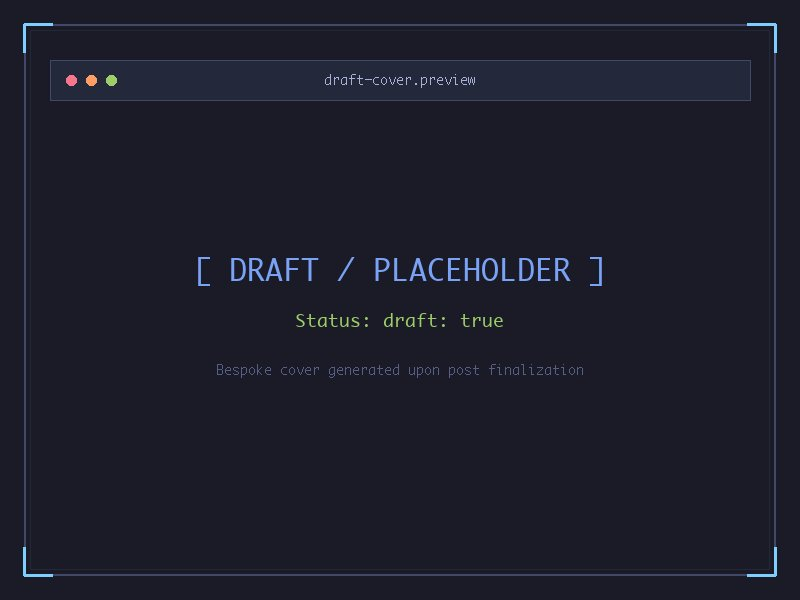
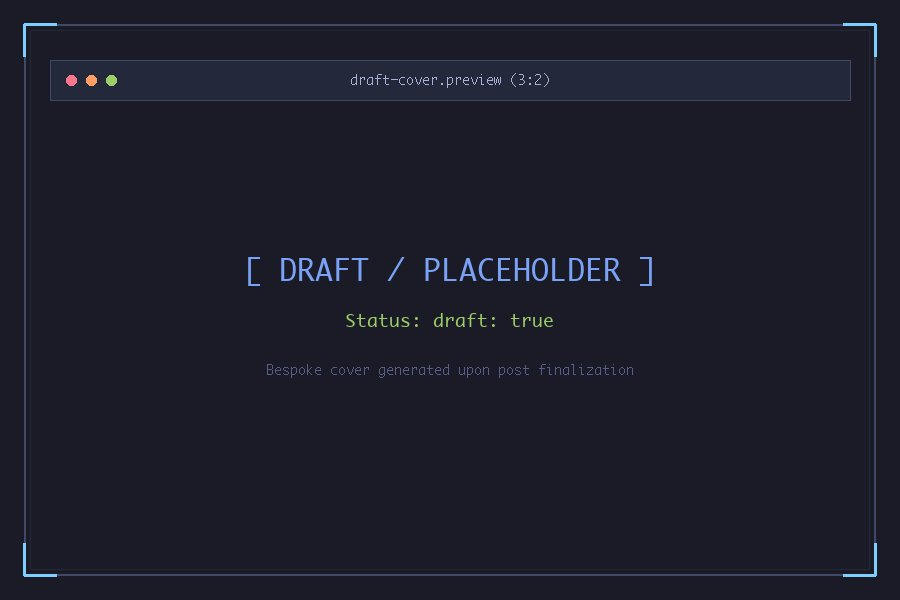
posts skils

diff --git a/.agents/skills/generate-post-image/references/style-guide.md b/.agents/skills/generate-post-image/references/style-guide.md
@@ -13,20 +13,25 @@ Guidelines for generating cover images for [bwrob.dev](https://bwrob.dev).
 * **Text-Free**: Do not embed post titles, slogans, or headlines into the image. The
   blog already renders the title alongside the thumbnail. (Subtle micro-symbols like
   `$`, `>_`, or coordinate labels are fine if natural).
-* **Breathing Room**: Keep compositions balanced with generous dark negative space;
-  avoid chaotic edge-to-edge clutter.
+* **Prominent Framing (80–85% Canvas Fill)**: The central subject (window, diagram, or
+  architecture) should prominently occupy ~80–85% of the canvas with a clean margin.
+  Avoid vast empty voids.
+* **Purposeful Micro-Structure**: Populate panels and nodes with stylized, abstract
+  structure—such as syntax-colored code bars, prompt chips, metric grids, or routing
+  paths—rather than leaving containers flat and bare.
 
 ---
 
 ## 2. Color & Lighting
 
-* **Dark-Mode Base**: Anchored in deep dark backgrounds (slate, obsidian, or dark navy
-  around `#16161e` – `#1a1b26`) to fit the site's Tokyo Night theme.
+* **Cool Slate Background for Contrast**: Use a smooth mid-dark slate/charcoal canvas
+  (`#222738` – `#262b3d`) rather than pitch black. This gives floating dark-mode UI
+  panels (`#16161e` – `#1a1b26`) clean drop-shadow depth and prevents muddy blending.
 * **Flexible Accents**: Use whatever colors suit the post—whether muted and understated
   (slate, soft blue, sage) or punchy and vibrant (electric cyan, amber, emerald,
   violet).
-* **Lighting**: Crisp lines and matte/satin surfaces over blurry neon halos or lens
-  flares.
+* **Lighting & Edges**: Crisp hairline borders, soft ambient drop shadows, and
+  matte/satin surfaces. Avoid blurry neon halos or lens flares.
 
 ---
 
@@ -44,8 +49,8 @@ Feel free to choose whatever visual format best expresses the topic:
 
 ## 4. Technical Specs
 
-* **Dimensions**: **800 × 600** pixels (`4:3` horizontal aspect ratio), optimized for
-  thumbnail miniatures and fast loading.
+* **Dimensions**: **900 × 600** pixels (`3:2` horizontal aspect ratio), optimized for
+  responsive cards, miniatures, and lightweight fast loading.
 * **File Location**: Must **always** be placed directly inside the post folder:
 
   ```text
@@ -56,4 +61,11 @@ Feel free to choose whatever visual format best expresses the topic:
 
   ```yaml
   image: cover.jpg
+  ```
+
+* **In-Post Display**: The cover image must **always** be displayed at the very top of
+  the post body (directly below the frontmatter) at 98% width:
+
+  ```markdown
+  ![](cover.jpg){width="98%" fig-align="center"}
   ```

diff --git a/.agents/skills/generate-post-image/SKILL.md b/.agents/skills/generate-post-image/SKILL.md
@@ -69,17 +69,18 @@ Call `generate_image`:
 * `Prompt`: Your formulated prompt.
 * `ImageName`: Descriptive lowercase name with underscores (e.g.
   `message_pipeline_cover`).
-* `AspectRatio`: `"4:3"` (horizontal 4:3 format).
+* `AspectRatio`: `"3:2"` (horizontal 3:2 format).
 
 ### 4. Save and Optimize Image to the Post Directory
 
-Generated images are saved in the conversation artifact directory as `.png`. Convert and
-resize the image to an 800×600 JPEG at `posts/<post-slug>/cover.jpg`:
+Generated images are saved in the conversation artifact directory as `.png` or `.jpg`.
+Convert and resize the image to an optimized 900×600 JPEG at
+`posts/<post-slug>/cover.jpg`:
 
 Using macOS `sips`:
 
 ```bash
-sips -s format jpeg -z 600 800 -s formatOptions 85 "<artifact_image_path>" --out "posts/<post-slug>/cover.jpg"
+sips -s format jpeg -z 600 900 -s formatOptions 85 "<artifact_image_path>" --out "posts/<post-slug>/cover.jpg"
 ```
 
 Or using Python:
@@ -88,14 +89,15 @@ Or using Python:
 uv run python -c "
 from PIL import Image
 im = Image.open('<artifact_image_path>')
-im = im.resize((800, 600), Image.Resampling.LANCZOS)
+im = im.resize((900, 600), Image.Resampling.LANCZOS)
 im.convert('RGB').save('posts/<post-slug>/cover.jpg', 'JPEG', quality=85, optimize=True)
 "
 ```
 
-### 5. Update Post Frontmatter
+### 5. Update Post Frontmatter & Embed at Top
 
-Ensure `posts/<post-slug>/index.qmd` points to `cover.jpg`:
+Ensure `posts/<post-slug>/index.qmd` points to `cover.jpg` in the frontmatter and
+embeds it at the very top of the body at 98% width:
 
 ```yaml
 ---
@@ -104,11 +106,13 @@ description: "Your Post Description"
 categories: [...]
 image: cover.jpg
 ---
+
+![](cover.jpg){width="98%" fig-align="center"}
 ```
 
 ### 6. Verify
 
-1. Verify the file is 800×600 and lightweight:
+1. Verify the file is 900×600 and lightweight:
 
    ```bash
    file posts/<post-slug>/cover.jpg

diff --git a/.agents/skills/create-post-stub/SKILL.md b/.agents/skills/create-post-stub/SKILL.md
@@ -10,7 +10,7 @@ description: >-
 # Create Post Stub
 
 This skill scaffolds a new blog post draft on [bwrob.dev](https://bwrob.dev) with proper
-naming conventions, draft status, structured outline, and an 800×600 placeholder cover
+naming conventions, draft status, structured outline, and a 900×600 placeholder cover
 image.
 
 ---
@@ -60,7 +60,7 @@ mkdir -p "$POST_DIR"
 
 ### 3. Install Placeholder Cover Image
 
-Copy the bundled 800×600 Tokyo Night placeholder cover to the post directory:
+Copy the bundled 900×600 Tokyo Night placeholder cover to the post directory:
 
 ```bash
 cp .agents/skills/create-post-stub/resources/placeholder-cover.jpg "$POST_DIR/cover.jpg"
@@ -85,6 +85,8 @@ image: cover.jpg
 format-links: [html]
 toc-depth: 2
 ---
+
+![](cover.jpg){width="98%" fig-align="center"}
 
 Opening hook paragraph introducing the problem, tool, or pattern. Explain why this
 matters to developers and what the post demonstrates.
@@ -116,7 +118,9 @@ Explain the code mechanics, key arguments, and non-obvious nuances.
 ```text
 
 ### 5. Verify the Stub
-1. Check that `posts/<YY-MM-DD-slug>/cover.jpg` exists and is 800×600:
+
+1. Check that `posts/<YY-MM-DD-slug>/cover.jpg` exists and is 900×600:
+
    ```bash
    file posts/<YY-MM-DD-slug>/cover.jpg
    ```
@@ -132,4 +136,4 @@ Once the user has authored the full content and is ready to finalize the post:
 1. **Undraft the post**: Remove `draft: true` (or set `draft: false`) in `index.qmd`.
 2. **Update modified date**: Set `date-modified: "YYYY-MM-DD"`.
 3. **Generate Final Cover**: Invoke the **`generate-post-image`** skill to create the
-   bespoke 800×600 Tokyo Night cover, replacing `posts/<YY-MM-DD-slug>/cover.jpg`.
+   bespoke 900×600 Tokyo Night cover, replacing `posts/<YY-MM-DD-slug>/cover.jpg`.
